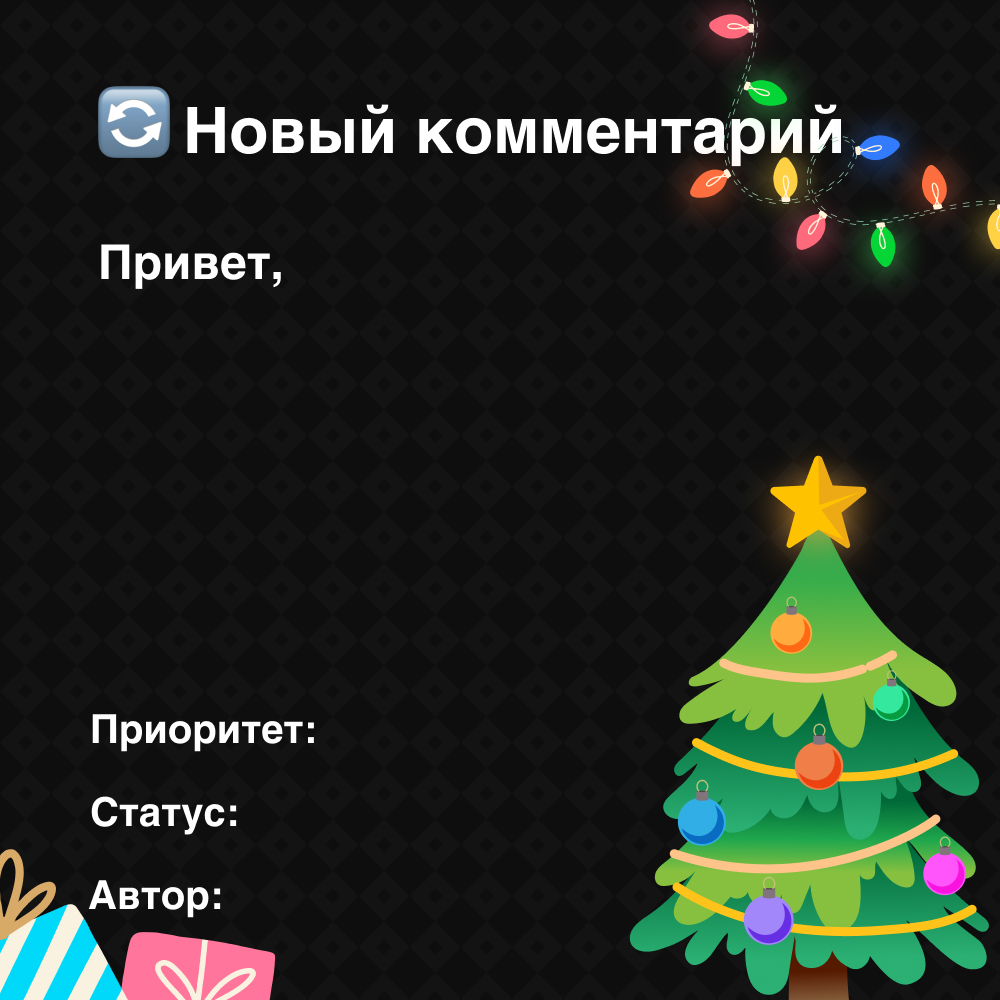
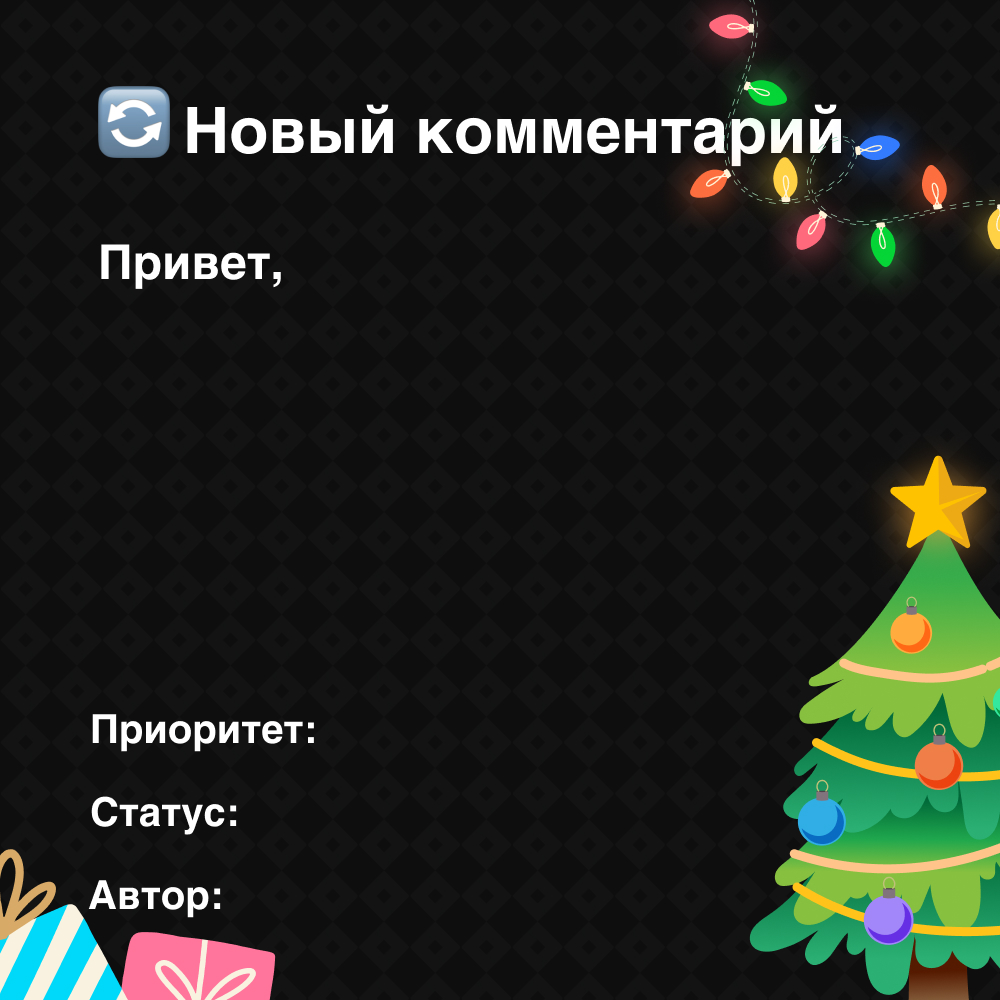
Update pictures && Added changesets

Changed region(s): [[0.62, 0.434, 1.0, 1.0]]

diff --git a/services/telegram/cover.go b/services/telegram/cover.go
@@ -30,8 +30,8 @@ func getCoverForNewIssue(issue models.Issue) string {
 	return DrawImageByTemplate("resources/new_issue_cover.jpg", labels)
 }
 
-func getCoverForUpdatedIssue(issue models.Issue) string {
-	labels := getLabelsByIssue(issue)
+func getCoverForUpdatedIssue(issue models.Issue, changeSets []models.ChangeSet) string {
+	labels := getLabelsByChangeSet(issue, changeSets)
 	return DrawImageByTemplate("resources/updated_issue_cover.jpg", labels)
 }
 
@@ -48,6 +48,51 @@ func getLabelsByIssue(issue models.Issue) []Label {
 		{Text: issue.Status, XPos: 255, YPos: 825, FontSize: 14},
 		{Text: issue.Author, XPos: 240, YPos: 910, FontSize: 14},
 	}
+}
+
+func getLabelsByChangeSet(issue models.Issue, changeSets []models.ChangeSet) []Label {
+	var labels = []Label{
+		{Text: issue.User.Name + "!", XPos: 290, YPos: 280, FontSize: 16},
+		{Text: fmt.Sprintf("%v %v", issue.Tag, issue.Title), XPos: 98, YPos: 380, FontSize: 14},
+		{Text: issue.Author, XPos: 240, YPos: 910, FontSize: 14},
+	}
+
+	if statusChangeSet := findChangeSetByField("status", changeSets); statusChangeSet != nil {
+		labels = append(
+			labels,
+			Label{
+				Text:     fmt.Sprintf("%v ‣ %v", statusChangeSet.OldValue, statusChangeSet.NewValue),
+				XPos:     255,
+				YPos:     825,
+				FontSize: 14},
+		)
+	} else {
+		labels = append(labels, Label{Text: issue.Status, XPos: 255, YPos: 825, FontSize: 14})
+	}
+
+	if priorityChangeSet := findChangeSetByField("priority", changeSets); priorityChangeSet != nil {
+		labels = append(
+			labels,
+			Label{
+				Text:     fmt.Sprintf("%v -> %v", priorityChangeSet.OldValue, priorityChangeSet.NewValue),
+				XPos:     334,
+				YPos:     745,
+				FontSize: 14},
+		)
+	} else {
+		labels = append(labels, Label{Text: issue.Priority, XPos: 334, YPos: 745, FontSize: 14})
+	}
+
+	return labels
+}
+
+func findChangeSetByField(field string, changeSets []models.ChangeSet) *models.ChangeSet {
+	for _, changeSet := range changeSets {
+		if changeSet.Field == field {
+			return &changeSet
+		}
+	}
+	return nil
 }
 
 func DrawImageByTemplate(templatePath string, labels []Label) string {

diff --git a/services/jira/issues.go b/services/jira/issues.go
@@ -87,18 +87,33 @@ func LoadWatchedIssues(user models.User, silent bool) {
 					Issue: issue,
 				}
 
-				if int(commentsCount) != issue.CommentCount {
+				if int(commentsCount) > issue.CommentCount {
 					notification.Type = models.UpdatedCommentsIssueType
 				} else {
 					notification.Type = models.UpdatedIssueType
 				}
 
-				issue.Status = status
-				issue.Priority = priority
-				issue.CommentCount = int(commentsCount)
-
 				models.DB.Create(&notification)
+
+				var changeSets []models.ChangeSet
+
+				if status != issue.Status {
+					changeSet := models.NewChangeSet(issue, "status", issue.Status, status, notification)
+					changeSets = append(changeSets, changeSet)
+				}
+				if priority != issue.Priority {
+					changeSet := models.NewChangeSet(issue, "priority", issue.Priority, priority, notification)
+					changeSets = append(changeSets, changeSet)
+				}
+
+				if len(changeSets) > 0 {
+					models.DB.Create(&changeSets)
+				}
 			}
+
+			issue.Status = status
+			issue.Priority = priority
+			issue.CommentCount = int(commentsCount)
 
 			models.DB.Save(&issue)
 		}

diff --git a/models/notification.go b/models/notification.go
@@ -16,18 +16,25 @@ const (
 )
 
 type Notification struct {
-	ID       uint
-	UserID   uint
-	User     User
-	Notified bool
-	Type     string
-	IssueID  uint
-	Issue    Issue
+	ID         uint
+	UserID     uint
+	User       User
+	Notified   bool
+	Type       string
+	IssueID    uint
+	Issue      Issue
+	ChangeSets []ChangeSet `gorm:"constraint:OnUpdate:CASCADE,OnDelete:CASCADE;"`
 }
 
 func FindAllActiveNotifications() ([]Notification, error) {
 	var notifications []Notification
-	err := DB.Preload("User").Preload("Issue").Preload("Issue.User").Where("notified = false").Find(&notifications).Error
+	err := DB.
+		Preload("User").
+		Preload("ChangeSets").
+		Preload("Issue").
+		Preload("Issue.User").
+		Where("notified = false").
+		Find(&notifications).Error
 	return notifications, err
 }
 

diff --git a/models/changeset.go b/models/changeset.go
@@ -1,0 +1,31 @@
+package models
+
+import "gorm.io/gorm"
+
+type ChangeSet struct {
+	ID             uint
+	IssueID        uint
+	Issue          Issue
+	Field          string
+	OldValue       string
+	NewValue       string
+	NotificationID uint
+	Notification   Notification
+}
+
+func NewChangeSet(issue Issue, field, oldValue, newValue string, notification Notification) ChangeSet {
+	return ChangeSet{
+		Issue:        issue,
+		Notification: notification,
+		Field:        field,
+		OldValue:     oldValue,
+		NewValue:     newValue,
+	}
+}
+
+func (changeSet *ChangeSet) BeforeCreate(tx *gorm.DB) error {
+	changeSet.NotificationID = changeSet.Notification.ID
+	changeSet.IssueID = changeSet.Issue.ID
+
+	return nil
+}

diff --git a/services/telegram/messaging.go b/services/telegram/messaging.go
@@ -8,10 +8,10 @@ import (
 	"os"
 )
 
-func SendSimpleUpdatedIssueMessage(issue models.Issue, user models.User) {
-	filepath := getCoverForUpdatedIssue(issue)
+func SendSimpleUpdatedIssueMessage(notification models.Notification) {
+	filepath := getCoverForUpdatedIssue(notification.Issue, notification.ChangeSets)
 
-	sendUpdatedIssueMessage(issue, user, filepath)
+	sendUpdatedIssueMessage(notification.Issue, notification.User, filepath)
 }
 
 func SendCommentsUpdatedIssueMessage(issue models.Issue, user models.User) {

diff --git a/models/message.go b/models/message.go
@@ -1,6 +1,7 @@
 package models
 
 import (
+	"database/sql"
 	"gorm.io/gorm"
 )
 
@@ -14,7 +15,8 @@ type Message struct {
 
 func FindMessageById(updateId uint) (Message, error) {
 	var message Message
-	err := DB.Preload("User").Where(&Message{ID: updateId}).First(&message).Error
+	//when use .First method I catch NotFoundRecord error, why?
+	err := DB.Preload("User").Where("id = @id", sql.Named("id", updateId)).Find(&message).Error
 	return message, err
 }
 

diff --git a/handlers/notification_handler.go b/handlers/notification_handler.go
@@ -27,7 +27,7 @@ func HandleNotification() {
 		case models.NewIssueType:
 			telegram.SendAssigneeIssueMessage(notification.Issue, notification.User)
 		case models.UpdatedIssueType:
-			telegram.SendSimpleUpdatedIssueMessage(notification.Issue, notification.User)
+			telegram.SendSimpleUpdatedIssueMessage(notification)
 		case models.UpdatedCommentsIssueType:
 			telegram.SendCommentsUpdatedIssueMessage(notification.Issue, notification.User)
 		}

diff --git a/models/issue.go b/models/issue.go
@@ -18,6 +18,7 @@ type Issue struct {
 	UserID        uint
 	User          User
 	Notifications []Notification `gorm:"constraint:OnUpdate:CASCADE,OnDelete:CASCADE;"`
+	ChangeSets    []ChangeSet    `gorm:"constraint:OnUpdate:CASCADE,OnDelete:CASCADE;"`
 }
 
 func FindIssueByTag(tag string, user User) (Issue, error) {

diff --git a/models/setup.go b/models/setup.go
@@ -42,6 +42,7 @@ func ConnectDatabase() error {
 	err = database.AutoMigrate(&Issue{})
 	err = database.AutoMigrate(&Message{})
 	err = database.AutoMigrate(&Notification{})
+	err = database.AutoMigrate(&ChangeSet{})
 
 	if err != nil {
 		return errors.New("failed auto migrate database")
